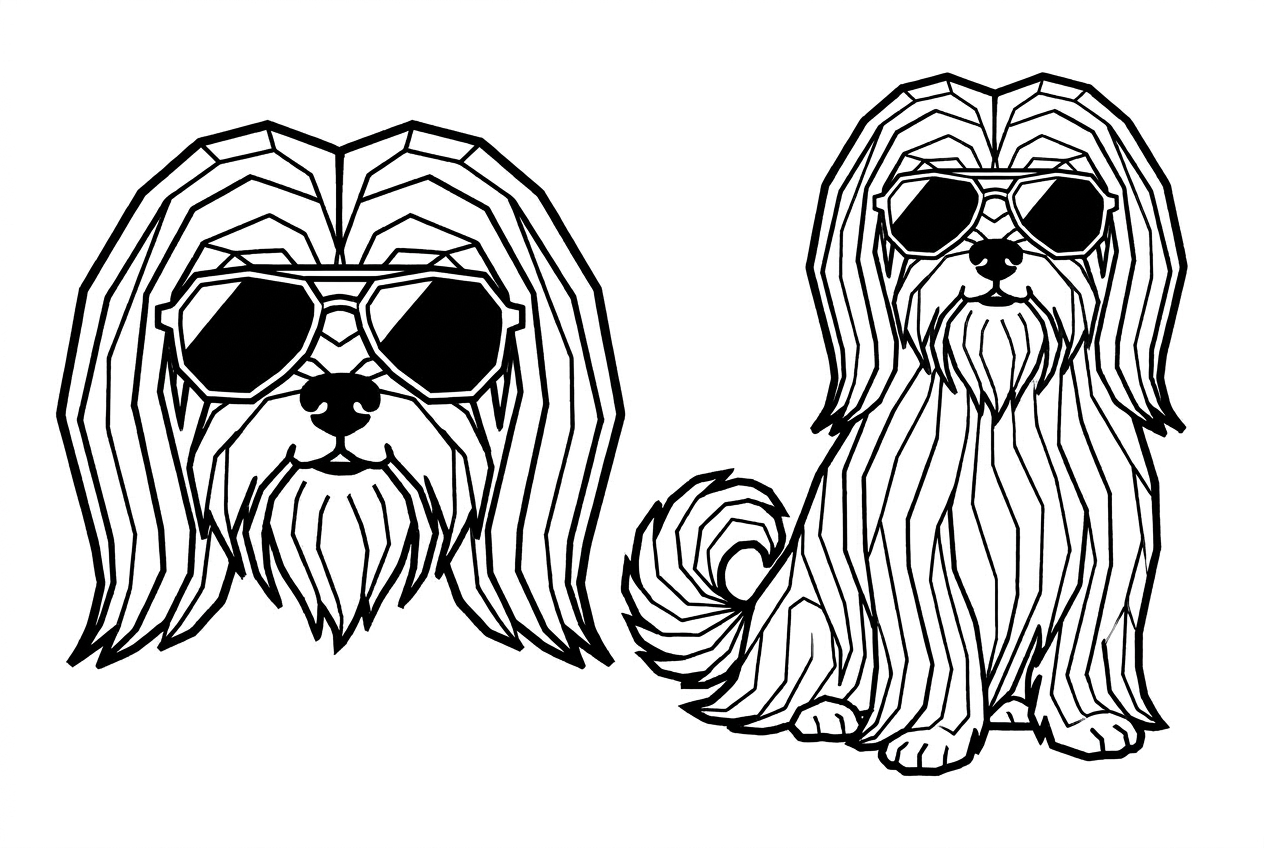
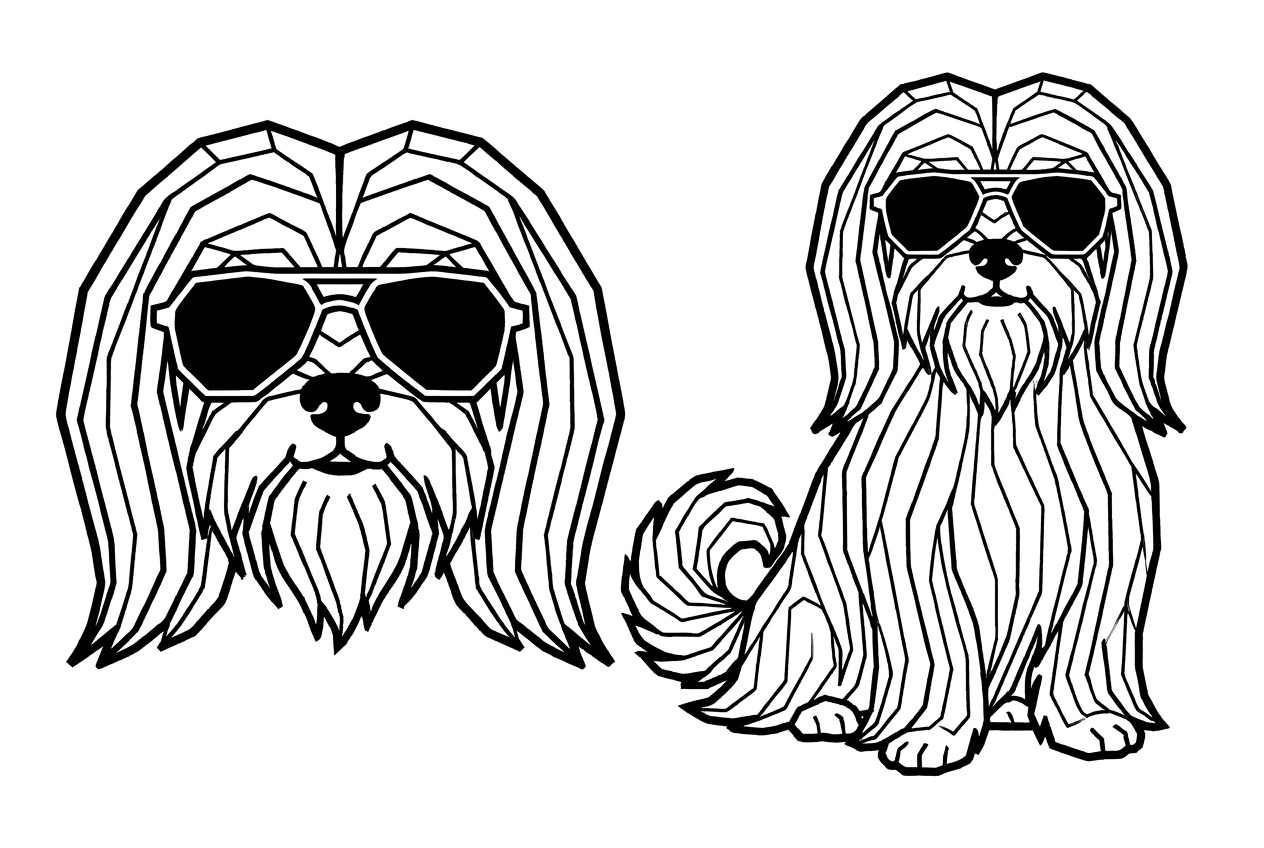
nb2: compose/export/review round 1
Claude-Session: https://claude.ai/code/session_01AdsVvN9orQkgpWjS9rjafM

diff --git a/scripts/nb_compose.py b/scripts/nb_compose.py
@@ -1,0 +1,105 @@
+"""nb_compose.py: sel pngs + eye boxes -> light/dark alpha (2x) with ONE consistent eye style.
+usage: nb_compose.py SELDIR EYES.json OUTDIR   -> OUTDIR/light/<name>.png, OUTDIR/dark/<name>.png (L, white=ink)"""
+import sys, os, json, glob, numpy as np, cv2
+from PIL import Image
+sys.path.insert(0, os.path.dirname(__file__))
+from nb_lib import split_x, split_masks
+S = 2
+GX, GY = 0.42, -0.14           # shared gaze (same for every eye)
+def ss(img, k=8):               # draw helper with sub-pixel accuracy
+    return k
+def circ(a, x, y, r, col, th=-1):
+    k = 16; cv2.circle(a, (int(round(x*k)), int(round(y*k))), int(round(r*k)), col, -1 if th < 0 else max(1, int(round(th))), cv2.LINE_AA, 4)
+def stroke_med(alpha_bin):
+    sk = cv2.ximgproc.thinning(alpha_bin.astype(np.uint8)*255) if hasattr(cv2, "ximgproc") else None
+    dt = cv2.distanceTransform(alpha_bin.astype(np.uint8), cv2.DIST_L2, 5)
+    if sk is None:
+        # approx: local maxima of dt
+        mx = cv2.dilate(dt, np.ones((5, 5), np.float32)); pts = (dt >= mx-1e-3) & (dt > 0.8)
+    else: pts = sk > 0
+    v = dt[pts]; v = v[(v > 0.8) & (v < 12)]
+    return float(np.median(v)*2) if len(v) else 4.0
+def fill_lenses(a, boxes):
+    """make sunglasses lenses fully solid: close glare slashes, keep only big solid blobs near the eye positions, fill their hulls"""
+    H, W = a.shape; out = a.copy(); m = (a > 128).astype(np.uint8)
+    for e in boxes:
+        y0, x0, y1, x1 = e["box_2d"]; cx, cy = (x0+x1)/2*W/1000, (y0+y1)/2*H/1000; r = 0.5*min((x1-x0)*W/1000, (y1-y0)*H/1000)
+        zr = int(1.9*r); k = max(5, int(0.36*r)//2*2+1); ko = max(5, int(0.5*r)//2*2+1)
+        X0, X1, Y0, Y1 = max(0, int(cx-zr)), min(W, int(cx+zr)), max(0, int(cy-zr)), min(H, int(cy+zr))
+        sub = m[Y0:Y1, X0:X1]
+        c = cv2.morphologyEx(sub, cv2.MORPH_CLOSE, cv2.getStructuringElement(cv2.MORPH_ELLIPSE, (k, k)))
+        o = cv2.morphologyEx(c, cv2.MORPH_OPEN, cv2.getStructuringElement(cv2.MORPH_ELLIPSE, (ko, ko)))
+        n, lab, st, cen = cv2.connectedComponentsWithStats(o, 8)
+        best = None
+        for i in range(1, n):
+            d = np.hypot(cen[i][0]-(cx-X0), cen[i][1]-(cy-Y0))
+            if st[i, 4] > 0.6*r*r and d < 1.3*r and (best is None or st[i, 4] > st[best, 4]): best = i
+        if best is None: continue
+        cnt, _ = cv2.findContours((lab == best).astype(np.uint8), cv2.RETR_EXTERNAL, cv2.CHAIN_APPROX_SIMPLE)
+        hull = cv2.convexHull(np.vstack(cnt)); fill = np.zeros_like(sub); cv2.fillConvexPoly(fill, hull, 1)
+        # only fill pixels that are enclosed by lens: hull shrunk slightly to keep the frame shape
+        fill = cv2.erode(fill, np.ones((3, 3), np.uint8))
+        region = out[Y0:Y1, X0:X1]; region[fill > 0] = 255
+    return out
+def build(path, boxes, lens_boxes=None):
+    g = np.array(Image.open(path).convert("L"))
+    H0, W0 = g.shape
+    g2 = cv2.resize(g, None, fx=S, fy=S, interpolation=cv2.INTER_CUBIC).astype(np.float32)
+    a = np.clip(((255-g2)/255.0-0.25)/0.5, 0, 1)*255            # soft-threshold alpha
+    a = a.astype(np.uint8)
+    H, W = a.shape
+    if lens_boxes: a = fill_lenses(a, lens_boxes)
+    binm = a > 128
+    fm, bm = split_masks(binm)
+    cut = (np.where(fm)[1].max() + np.where(bm)[1].min())/2 if np.where(fm)[1].max() < np.where(bm)[1].min() else W/2
+    sm = {"front": stroke_med(fm), "back": stroke_med(bm)}
+    eyes = []
+    for e in boxes:
+        y0, x0, y1, x1 = e["box_2d"]; bx0, bx1, by0, by1 = x0*W/1000, x1*W/1000, y0*H/1000, y1*H/1000
+        cx, cy = (bx0+bx1)/2, (by0+by1)/2; r = 0.5*min(bx1-bx0, by1-by0)
+        eyes.append(dict(cx=cx, cy=cy, r=r, side="front" if cx < cut else "back"))
+    # one radius per (dog, pair) : mean of its eyes -> both eyes of a dog identical
+    for side in ("front", "back"):
+        es = [e for e in eyes if e["side"] == side]
+        if es:
+            R = float(np.mean([e["r"] for e in es]))
+            # make the pair horizontally level
+            cyv = float(np.mean([e["cy"] for e in es]))
+            for e in es: e["r"] = R; e["cy"] = cyv if len(es) == 2 else e["cy"]
+    # remove small stray specks/ticks left next to old eyes (isolated blobs only)
+    nn, lab, st, cen = cv2.connectedComponentsWithStats((a > 128).astype(np.uint8), 8)
+    for e in eyes:
+        for i in range(1, nn):
+            if st[i, 4] < 0.9*e["r"]**2 and np.hypot(cen[i][0]-e["cx"], cen[i][1]-e["cy"]) < 2.1*e["r"]:
+                a[cv2.dilate((lab == i).astype(np.uint8), np.ones((5, 5), np.uint8)) > 0] = 0
+    L = a.copy(); D = a.copy(); info = []
+    for e in eyes:
+        R = e["r"]; s = max(3.0, min(sm[e['side']]*0.85, 0.34*R*0.70)); s = max(s, 0.16*R*0.70)
+        for arr in (L, D):
+            circ(arr, e["cx"], e["cy"], R*1.05+s*0.5, 0, -1)         # erase old eye area
+        ro = R*0.70                                                   # outer eye ring radius
+        # LIGHT: ring + solid pupil (offset by shared gaze) + glint
+        circ(L, e["cx"], e["cy"], ro, 255, s)
+        rp = 0.50*ro; room = ro-s/2-rp-s*0.5
+        px, py = e["cx"]+GX*room, e["cy"]+GY*room
+        circ(L, px, py, rp, 255, -1); circ(L, px+0.38*rp, py-0.38*rp, max(1.6, 0.26*rp), 0, -1)
+        # DARK: ring + small iris ring + highlight dot, inside black
+        circ(D, e["cx"], e["cy"], ro, 255, s)
+        ri = 0.40*ro; ix, iy = e["cx"]+GX*(ro*0.36), e["cy"]+GY*(ro*0.36)
+        circ(D, ix, iy, ri, 255, max(s*0.75, 2.4))
+        circ(D, ix+0.30*ri, iy-0.30*ri, max(2.0, 0.17*ri), 255, -1)
+        info.append((round(e["cx"]), round(e["cy"]), round(ro, 1), round(s, 1)))
+    return L, D, info, cut
+if __name__ == "__main__":
+    sel, ej, out = sys.argv[1:4]
+    eyes = json.load(open(ej)); os.makedirs(out+"/light", exist_ok=True); os.makedirs(out+"/dark", exist_ok=True); rep = {}
+    for p in sorted(glob.glob(sel+"/*.png")):
+        n = os.path.basename(p); key = [k for k in eyes if k.endswith("/"+n)]
+        boxes = eyes[key[0]] if key else []
+        lb = None
+        if False:
+            ck = [k for k in eyes if k.endswith("/"+n.replace("_cool","_classic"))]; lb = eyes[ck[0]] if ck else None
+        L, D, info, cut = build(p, boxes, lb)
+        Image.fromarray(L).save(f"{out}/light/{n}"); Image.fromarray(D).save(f"{out}/dark/{n}"); rep[n] = (info, cut)
+    json.dump(rep, open(out+"/compose_log.json", "w"))
+    print(len(rep))

diff --git a/scripts/nb_req1.py b/scripts/nb_req1.py
@@ -2,9 +2,10 @@ import json,glob,os
 CONF={"lhasa_apso":("Lhasa Apso","Shih Tzu, Maltese, Yorkshire Terrier, Havanese","a Lhasa Apso has a very long straight floor-length coat parted in the center, beard and moustache, medium-length muzzle, tail curled over the back, and NO topknot/ponytail/bow"),
 "miniature_pinscher":("Miniature Pinscher","Doberman Pinscher, Chihuahua, Italian Greyhound, Whippet, Manchester Terrier","a Miniature Pinscher is a toy dog with a compact nearly square body, short neck, rounded skull, short blunt muzzle, medium-small erect ears; a Doberman has a long narrow head, long muzzle, tall neck; a Chihuahua has huge ears and a domed apple head"),
 "vira_lata":("Vira-lata (Brazilian SRD caramel street dog)","Beagle, Labrador, Pit Bull, Whippet/Greyhound, Hound, Jack Russell","a Vira-lata is a generic lean medium mixed-breed street dog with a short coat, semi-erect triangular folded-tip ears, lean wedge muzzle, long thin tail; it must NOT have long drooping beagle/hound ears, tricolor beagle patches, or a heavy pit-bull jaw")}
-R=[]
-for f in sorted(glob.glob("out/nb2/m1/*.png")):
-    n=os.path.basename(f)[:-4]; slug=[s for s in CONF if s in n][0]; nm,conf,desc=CONF[slug]
-    th="continuous single-line" if "_line_" in n else "geometric polygon"
-    R.append({"id":n,"images":[f],"prompt":f"You are a strict dog-breed illustrator and print-on-demand art director. The image is a {th} line-art design: a small FRONT head emblem (left) and a full-body sitting dog (right) that are supposed to be a {nm}. Facts: {desc}. Commonly confused with: {conf}. Judge critically like a customer looking at a printed T-shirt. Return ONLY JSON: {{\"breed_identity\":0-10 (would a dog expert instantly say {nm}? 10=unmistakable; deduct hard if it looks like a confusable breed),\"looks_like\":\"which breed it most looks like\",\"head_back_match\":0-10 (front head and full body clearly same dog),\"completeness\":0-10 (all ears, tail, 4 legs and paws complete, nothing cut off, no stray marks),\"anatomy\":0-10 (no malformed anatomy, lines clean),\"appeal\":0-10,\"sitting\":true/false (is the full-body dog sitting),\"problems\":[short strings]}}"})
-json.dump(R,open("scripts/nb_req1.json","w"),indent=1); print(len(R))
+if __name__=="__main__":
+    R=[]
+    for f in sorted(glob.glob("out/nb2/m1/*.png")):
+        n=os.path.basename(f)[:-4]; slug=[s for s in CONF if s in n][0]; nm,conf,desc=CONF[slug]
+        th="continuous single-line" if "_line_" in n else "geometric polygon"
+        R.append({"id":n,"images":[f],"prompt":f"You are a strict dog-breed illustrator and print-on-demand art director. The image is a {th} line-art design: a small FRONT head emblem (left) and a full-body sitting dog (right) that are supposed to be a {nm}. Facts: {desc}. Commonly confused with: {conf}. Judge critically like a customer looking at a printed T-shirt. Return ONLY JSON: {{\"breed_identity\":0-10 (would a dog expert instantly say {nm}? 10=unmistakable; deduct hard if it looks like a confusable breed),\"looks_like\":\"which breed it most looks like\",\"head_back_match\":0-10 (front head and full body clearly same dog),\"completeness\":0-10 (all ears, tail, 4 legs and paws complete, nothing cut off, no stray marks),\"anatomy\":0-10 (no malformed anatomy, lines clean),\"appeal\":0-10,\"sitting\":true/false (is the full-body dog sitting),\"problems\":[short strings]}}"})
+    json.dump(R,open("scripts/nb_req1.json","w"),indent=1); print(len(R))

diff --git a/scripts/nb_export.py b/scripts/nb_export.py
@@ -1,0 +1,50 @@
+"""nb_export.py COMPDIR OUTDIR -> per breed transparent PNG exports (2400px) + light/dark contact sheets."""
+import sys, os, glob, numpy as np
+from PIL import Image, ImageDraw, ImageFont
+sys.path.insert(0, os.path.dirname(__file__)); from nb_lib import split_x, split_masks
+import cv2
+comp, out = sys.argv[1:3]
+BREEDS = ["lhasa_apso", "miniature_pinscher", "vira_lata"]
+ORDER = [("line","classic"),("line","cool"),("line","heart"),("geo","classic"),("geo","cool"),("geo","heart")]
+TH={"line":"Linha","geo":"Geom."}; VA={"classic":"Classico","cool":"Oculos","heart":"Coracao"}
+F=ImageFont.truetype('/usr/share/fonts/truetype/dejavu/DejaVuSans.ttf',17)
+def parts(n, mode):
+    a = np.array(Image.open(f"{comp}/{mode}/{n}.png")); m = a > 128; fm, bm = split_masks(m); res = {}
+    for side, mm in (("front", fm), ("back", bm)):
+        d = cv2.dilate(mm.astype(np.uint8), np.ones((5, 5), np.uint8)) > 0
+        other = bm if side == "front" else fm
+        keep = d & ~(cv2.dilate(other.astype(np.uint8), np.ones((3, 3), np.uint8)) > 0 & ~d)
+        sub = np.where(d, a, 0).astype(np.uint8); mk = mm; ys, xs = np.where(mk)
+        pad = 20; y0, y1 = max(ys.min()-pad, 0), min(ys.max()+pad, mk.shape[0]); x0, x1 = max(xs.min()-pad, 0), min(xs.max()+pad, mk.shape[1])
+        sub = sub[y0:y1, x0:x1]; h, w = sub.shape; t = 2400/max(h, w)
+        res[side] = Image.fromarray(sub).resize((round(w*t), round(h*t)), Image.LANCZOS)
+    return res
+for b in BREEDS:
+    sheets = {}
+    for mode, bg, fg in (("light", 255, 0), ("dark", 0, 255)):
+        sh = Image.new("RGB", (2000, 1560), (bg,)*3); d = ImageDraw.Draw(sh)
+        d.text((12, 8), f"{b.replace('_',' ').title()} - {mode.upper()} card ({'black' if mode=='light' else 'white'} lines)", fill=(200,0,0), font=F)
+        sheets[mode] = (sh, d)
+    for i, (th, v) in enumerate(ORDER):
+        n = f"{th}_{b}_{v}"
+        for mode, bg, fg in (("light", 255, 0), ("dark", 0, 255)):
+            p = parts(n, mode)
+            for side, al in p.items():
+                for ink, col in (("black", 0), ("white", 255)):
+                    if (ink == "black") != (mode == "light") and False: pass
+                if mode == "light":
+                    for ink, col in (("black", 0), ("white", 255)):
+                        o = Image.new("RGBA", al.size, (col, col, col, 0)); o.putalpha(al)
+                        dd = f"{out}/{b}/{ink}_ink"; os.makedirs(dd, exist_ok=True); o.save(f"{dd}/{b}_{th}_{v}_{side}_{ink}ink.png")
+            sh, d = sheets[mode]
+            r, c = divmod(i, 2)
+            for j, side in enumerate(("front", "back")):
+                im = p[side]; W, H = 470, 440; t = min(W/im.width, H/im.height); im2 = im.resize((max(1,round(im.width*t)), max(1,round(im.height*t))), Image.LANCZOS)
+                tile = Image.new("L", im2.size, bg); 
+                x = (c*2+j)*500+15+(W-im2.width)//2; y = 40+r*500+(H-im2.height)//2
+                if mode == "light": sh.paste(Image.new("RGB", im2.size, (0,0,0)), (x, y), im2)
+                else: sh.paste(Image.new("RGB", im2.size, (255,255,255)), (x, y), im2)
+                d.text(((c*2+j)*500+15, 40+r*500+455), f"{TH[th]} {VA[v]} {side}", fill=(200,0,0), font=F)
+    for mode in ("light", "dark"):
+        os.makedirs(out, exist_ok=True); sheets[mode][0].save(f"{out}/{b}_{mode}_card.jpg", quality=90)
+print("ok")

diff --git a/scripts/nb_req2.py b/scripts/nb_req2.py
@@ -1,0 +1,9 @@
+import json,sys,os
+sys.path.insert(0,'scripts')
+from nb_req1 import CONF
+R=[]
+for slug,(nm,conf,desc) in CONF.items():
+  for mode in("light","dark"):
+    f=f"out/nb2/final/{slug}_{mode}_card.jpg"
+    R.append({"id":f"{slug}_{mode}","images":[f],"prompt":f"You are a strict independent print-on-demand art QA reviewer. The image is a contact sheet of 6 T-shirt designs of a {nm} ({mode} garment art, {'black lines on white' if mode=='light' else 'white lines on black'}). Each design = FRONT head emblem + BACK full-body sitting dog; rows: line classic (cols1-2), line cool/sunglasses (cols3-4), line heart (row2 cols1-2), geometric classic (row2 cols3-4), geometric cool (row3 cols1-2), geometric heart (row3 cols3-4). Facts: {desc}. Commonly confused with: {conf}. Check every item critically as a person looking at the printed shirt and return ONLY JSON: {{\"breed_identity\":0-10,\"looks_like\":\"..\",\"lenses_solid\":true/false (ALL four sunglasses incl. both lenses on head and back dog are completely solid {'black' if mode=='light' else 'white'} with nothing visible through them, no glare slashes),\"eyes_consistent\":true/false (all visible eyes in all designs share ONE identical style: ring outline + pupil/iris + highlight; no filled blobs, no mismatched eyes, no leftover old eye marks),\"eye_notes\":\"..\",\"lines_print_safe\":true/false (no hairline-thin or broken lines; white lines on dark not too thin),\"variant_consistency\":0-10 (within each of the 2 style families, classic/cool/heart show the same dog with same hair amount, line density, eyebrows, nostrils, mouth, chest lines; geometric designs consistent with each other),\"variant_notes\":\"..\",\"completeness\":0-10 (ears, tail, legs, paws complete, nothing cut off, no stray marks/fragments),\"overall_pass\":true/false,\"problems\":[...]}}"})
+json.dump(R,open("scripts/nb_req2.json","w"),indent=1)

diff --git a/scripts/nb_lib.py b/scripts/nb_lib.py
@@ -14,3 +14,23 @@ def split_x(mask):
             if best is None or run>best[1]: best=(i-run+1,run)
         else: run=0
     return lo+best[0]+best[1]//2 if best and best[1]>=6 else w//2
+
+def split_masks(mask):
+    """component-based front/back split (k-means on component centres, like white_art.split). returns (front,back) bool masks"""
+    n,lab,st,cen=cv2.connectedComponentsWithStats(mask.astype(np.uint8),8)
+    ids=[i for i in range(1,n) if st[i,4]>=6]; W=mask.shape[1]
+    xs=np.array([cen[i][0] for i in ids]); ar=np.array([st[i,4] for i in ids],float)
+    c=np.array([W*.28,W*.74])
+    for _ in range(40):
+        asg=(np.abs(xs-c[1])<np.abs(xs-c[0])).astype(int)
+        for k in(0,1):
+            if (asg==k).any(): c[k]=np.average(xs[asg==k],weights=ar[asg==k])
+    F=[i for i,a in zip(ids,asg) if a==0]; B=[i for i,a in zip(ids,asg) if a==1]
+    mainF=max(F,key=lambda i:st[i,4]); mainB=max(B,key=lambda i:st[i,4])
+    dF=cv2.distanceTransform((lab!=mainF).astype(np.uint8),cv2.DIST_L2,5); dB=cv2.distanceTransform((lab!=mainB).astype(np.uint8),cv2.DIST_L2,5)
+    nf,nb=[mainF],[mainB]
+    for i in ids:
+        if i in(mainF,mainB): continue
+        mk=lab==i
+        (nf if dF[mk].min()<=dB[mk].min() else nb).append(i)
+    return np.isin(lab,nf),np.isin(lab,nb)
